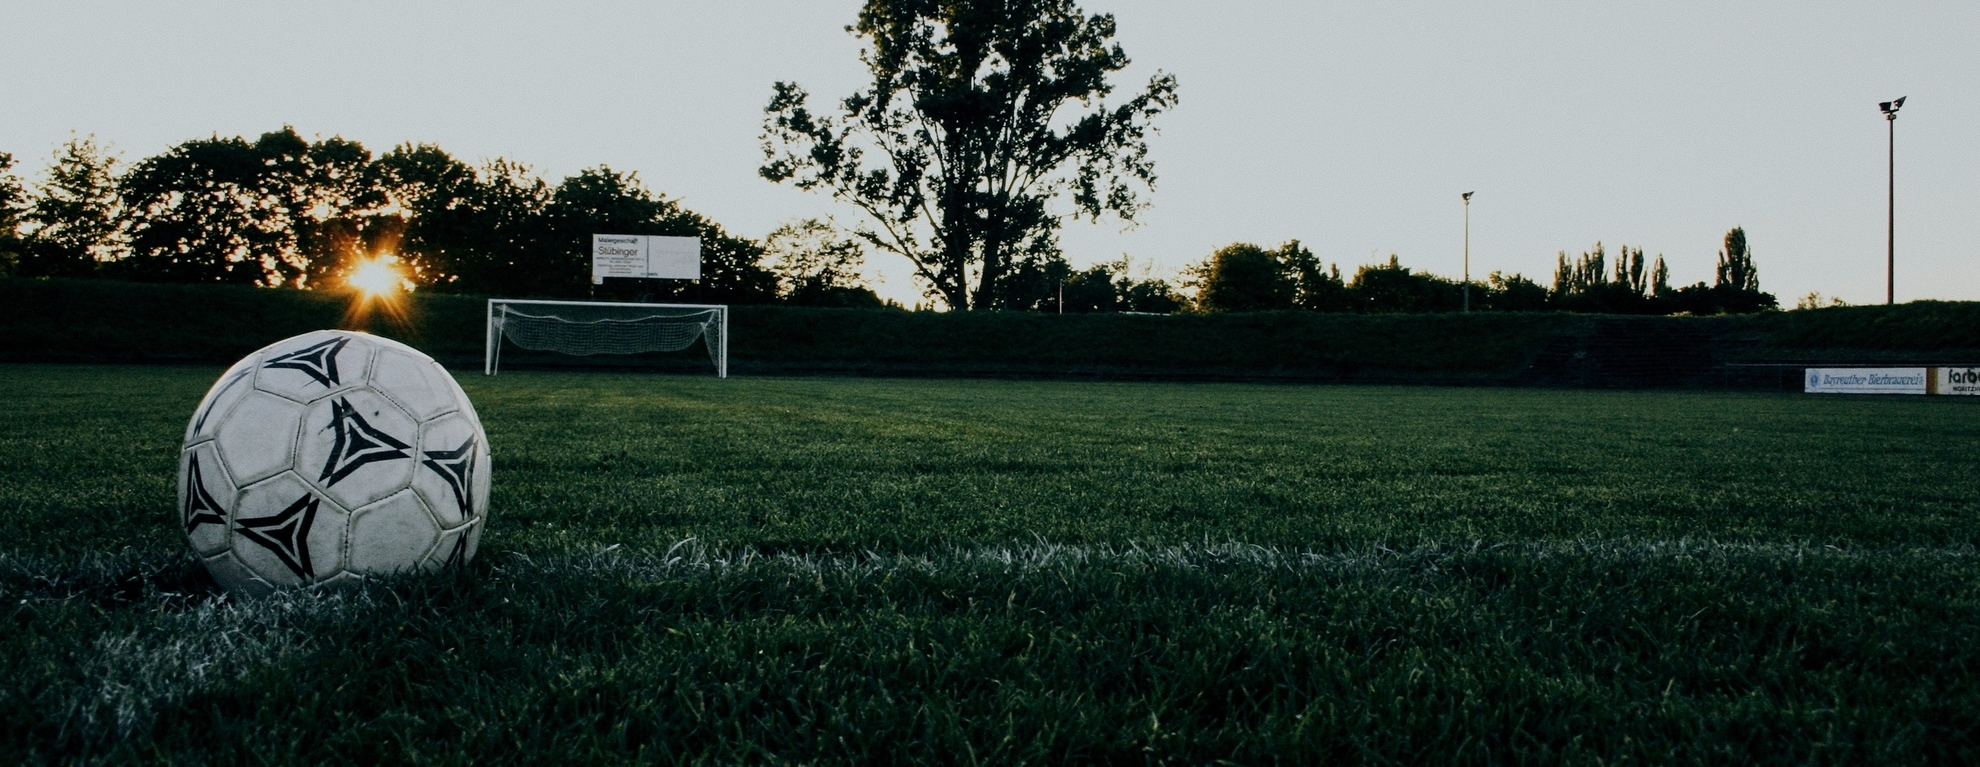
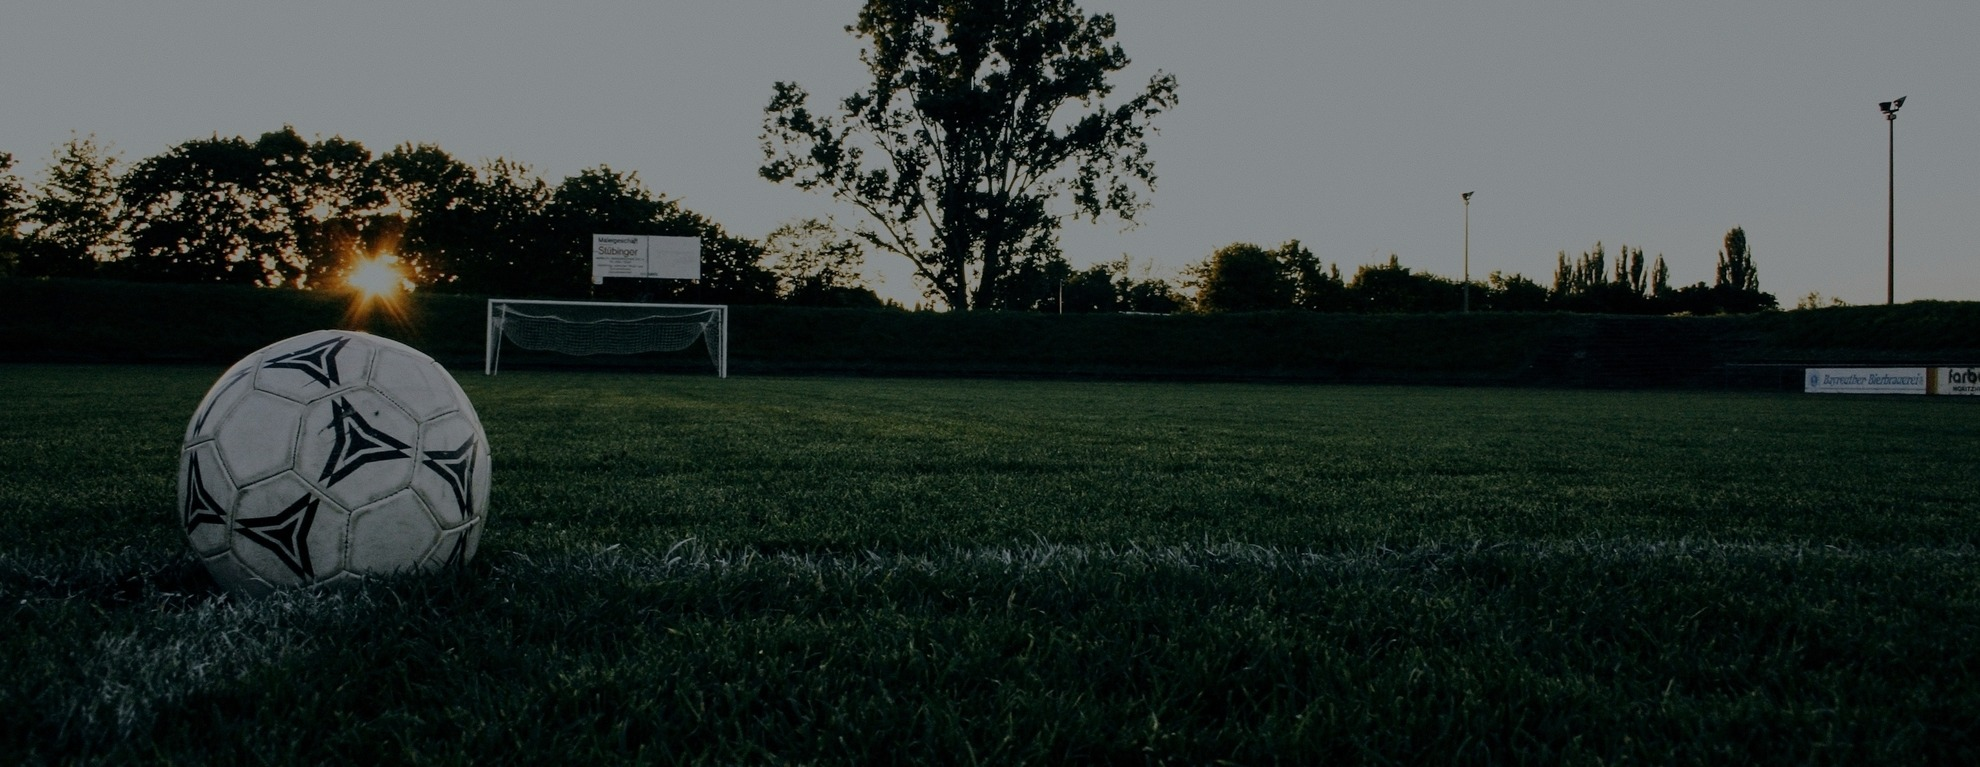
Darkened the photo some more so the font sticks out Changed the font to something more sport-esque Added a Home link with underline styles Changed the test page to ThePOST.html Added a bunch of HTML code that is commented out for now

diff --git a/index.html b/index.html
@@ -6,7 +6,7 @@
 	<!-- <meta name="description" content> -->
 	<title>Home - Goals G4lore</title>
 
-	<link href="https://fonts.googleapis.com/css?family=Karla&display=swap" rel="stylesheet">
+	<link href="https://fonts.googleapis.com/css?family=Muli" rel="stylesheet">
 	<style>body{font-family: 'Karla', sans-serif;}</style>
 
 	<link rel="stylesheet" type="text/css" href="styles/flexbox.css">
@@ -30,12 +30,10 @@
 					<div class="header">
 						<img class="logo" src="images/logo.jpg">
 						<div class="headerLinks">
-							<a href="#" id="aboutLink">About</a>
-							<a href="#" id="aboutLink">Rules</a>
-							<a href="#" id="aboutLink">Payments</a>
-							<a href="#" id="aboutLink">The Player's Online Selection Tool</a>
-							<a href="#" id="aboutLink">Live Updates</a>
-							<a href="#" id="aboutLink">Contact</a>
+							<a href="index.html" class="headerLink" id="">Home</a>
+							<a href="#" class="headerLink" id="aboutLink">About</a>
+							<a href="#" class="headerLink" id="">Rules</a>
+							<a href="ThePOST.html" class="headerLink" id="">The Player's Online Selection Tool</a>
 						</div>
 					</div>
 				</div>
@@ -59,13 +57,13 @@
 								</p>
 							</div>
 					</div>
-					<a class="container__button" href="test.html">Get Started</a>
+					<a class="container__button" href="ThePOST.html">Get Started</a>
 				</div>
 			</div>
 		</div>
 		</div>
 		<div class="container">
-			<div class="row">
+			<!-- <div class="row">
 				<div class="col-xs-12">
 					<div class="row">
 						<div class="col-xs-4">
@@ -89,6 +87,48 @@
 					</div>
 				</div>
 			</div>
+			<div class="row">
+				<div class="col-xs-12">
+					<h2 style="text-align: center">How does it work</h2>
+						<h3 style="text-align: center; color: #828d9f;">You're only a few steps away</h3>
+					<div class="row">
+						<div class="col-xs-4">
+							<div class="box">
+							<h3>Download</h3>
+								<p>Lorem ipsum dolor sit amet, consectetuer adipiscing elit.</p>
+							</div>
+						</div>
+						<div class="col-xs-4">
+							<div class="box">
+							<h3>Customise</h3>
+								<p>Lorem ipsum dolor sit amet, consectetuer adipiscing elit.</p>
+							</div>
+						</div>
+						<div class="col-xs-4">
+							<div class="box">
+							<h3>Launch</h3>
+								<p>Lorem ipsum dolor sit amet, consectetuer adipiscing elit.</p>
+							</div>
+						</div>
+					</div>
+				</div>
+			</div>
+			<div class="row">
+				<div class="col-xs-12">
+					<h2 style="text-align: center;">You're in good hands</h2>
+						<p style="text-align: center;">Lorem ipsum dolor sit amet, consectetur adipiscing elit, sed do eiusmod tempor incididunt ut labore et dolore magna aliqua.</p>
+				</div>
+			</div> -->
+		</div> <!-- end of container -->
+		<hr>
+		<!-- 	<div class="row">
+				<div style="background-color: #4550E6; min-height: 250px;"class="col-xs-12">
+					<h2 style="text-align: center; color: white;">Get Started</h2>
+						<h3 style="text-align: center; color: white;">Lorem ipsum dolor sit amet, consectetur adipiscing elit, sed do eiusmod tempor incididunt ut labore et dolore magna aliqua. Ut enim ad minim veniam, quis nostrud exercitation ullamco laboris nisi ut aliquip ex ea commodo consequat.</h3>
+
+						<a class="btn btn-light" href="https://themes.3rdwavemedia.com/bootstrap-templates/startup/coderpro-bootstrap-4-startup-template-for-software-projects/">Get Started</a>
+				</div> -->
+			
 		</div>
 
 <script src="https://code.jquery.com/jquery-3.4.1.min.js"></script>

diff --git a/styles/styles.css b/styles/styles.css
@@ -1,11 +1,22 @@
 html, body {
-  	font-family: 'Karla', sans-serif;
+  	font-family: 'Muli', sans-serif;
   	margin: 0;
   	overflow-x: hidden;
 }
 
+hr {
+	margin-top: 1rem;
+    margin-bottom: 1rem;
+    border: 0;
+    border-top: 1px solid rgba(0,0,0,0.1);
+    box-sizing: content-box;
+    height: 0;
+    overflow: visible;
+}
+
 .header {
-	margin: 0 5rem;
+	margin: 0 auto;
+    max-width: 1080px;
 }
 
 .heroContainer {
@@ -14,6 +25,11 @@ html, body {
 	min-height: 730px;
 	background-repeat: no-repeat;
 	color: white;
+}
+
+.topContainer {
+	margin: 0 auto;
+	max-width: 1080px;
 }
 
 .notification {
@@ -42,12 +58,15 @@ html, body {
 	margin: 0;
 }
 
-
-#aboutLink {
+.headerLink {
 	color: #ffffff;
-    text-decoration: none;
+	text-decoration: none;
     display: inline-block;
     margin: 2.5rem 2rem 0 0;
+}
+
+.headerLink:hover {
+	border-bottom: 2px solid #ffffff;
 }
 
 .logo {
@@ -67,12 +86,7 @@ html, body {
 }
 
 .container__about h2 {
-	font-size: 1.7rem;
-}
-
-.container__about {
-	min-height: 330px;
-    margin-left: 5rem;
+	font-size: 1.25rem;
 }
 
 .container__about p {
@@ -90,6 +104,7 @@ html, body {
     text-align: center;
     font-size: 1.5rem;
     margin: 0 auto;
+    margin-top: 10rem;
 }
 
 .container__button:hover {
@@ -108,4 +123,16 @@ html, body {
 
 .box h3 {
 	text-align: center;
+}
+
+/* crap css */
+
+.btn {
+	background: white;
+	width: 150px;
+	padding: 1rem;
+	color: grey;
+	text-align: center;
+	margin: 0 auto;
+	display: block;
 }

diff --git a/ThePOST.html b/ThePOST.html
@@ -1,0 +1,30 @@
+<!DOCTYPE html>
+<html lang="en-GB">
+<head>
+	<meta charset="utf-8">
+	<!-- <meta name="description" content> -->
+	<title>Home - Submit your picks</title>
+	<link href="https://fonts.googleapis.com/css?family=Karla&display=swap" rel="stylesheet">
+	<style>body{font-family: 'Karla', sans-serif;}</style>
+	<link rel="stylesheet" type="text/css" href="styles/flexbox.css">
+	<link rel="stylesheet" type="text/css" href="styles/styles.css">
+</head>
+<div class="row">
+				<div class="col-xs-12">
+					<div class="header">
+						<img class="logo" src="images/logo.jpg">
+						<div class="headerLinks">
+							<a href="#" id="aboutLink">About</a>
+							<a href="#" id="aboutLink">Rules</a>
+							<a href="#" id="aboutLink">Payments</a>
+							<a href="#" id="aboutLink">The Player's Online Selection Tool</a>
+							<a href="#" id="aboutLink">Live Updates</a>
+							<a href="#" id="aboutLink">Contact</a>
+						</div>
+					</div>
+				</div>
+			</div>
+<script src="https://code.jquery.com/jquery-3.4.1.min.js"></script>
+<script src="js/main.js"></script>
+<script type="text/javascript" src="https://form.jotform.com/jsform/201192636449054"></script>
+</html>
